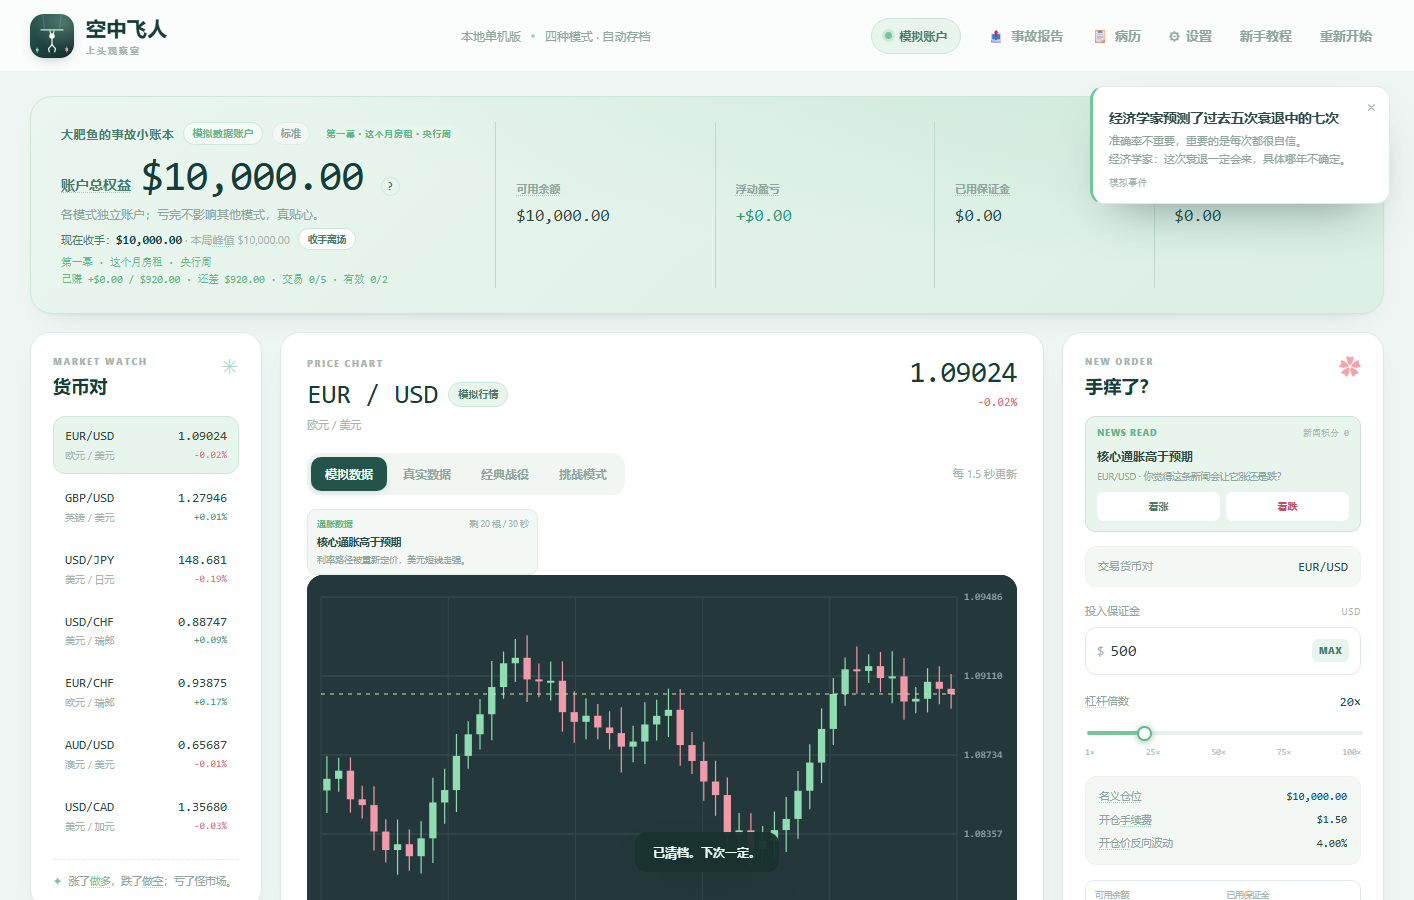
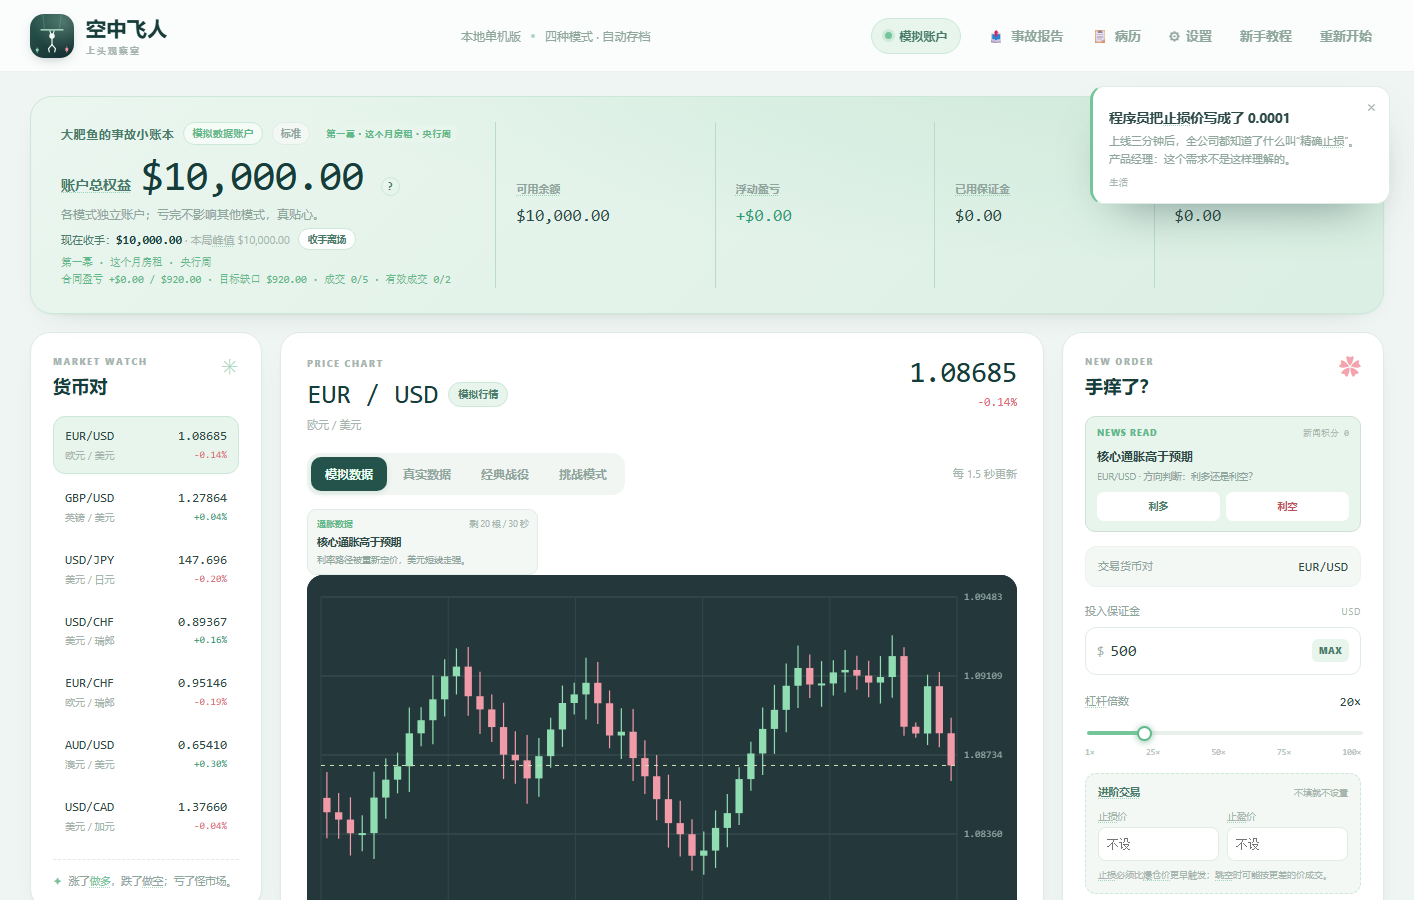
Make hard mode use professional terminology and advanced order fields

diff --git a/ui.js b/ui.js
@@ -198,7 +198,8 @@
       const done = !!contract.complete;
       const actLabel = ['第一幕', '第二幕', '第三幕'][Math.max(0, Math.min(2, (Number(contract.act) || 1) - 1))];
       const actEnd = contract.actEnds ? contract.actEnds[(Number(contract.act) || 1) - 1] : null;
-      const effectiveLabel = actEnd ? `有效 ${contract.actTrades || 0}/${actEnd}` : '';
+      const hard = s.mode === 'sim' && !E.settings.coachMode;
+      const effectiveLabel = actEnd ? `${hard ? '有效成交' : '有效'} ${contract.actTrades || 0}/${actEnd}` : '';
       const heading = `${actLabel} · ${contract.title}${contract.environmentTitle ? ` · ${contract.environmentTitle}` : ''}`;
       contractChip.textContent = `${heading}${done ? ' · 达成' : ''}`;
       contractChip.className = 'contract-chip' + (done ? ' done' : '');
@@ -206,9 +207,9 @@
       if (done) {
         contractLine.textContent = `${actLabel} · 目标达成。现在收手，还是再贪一点？`;
       } else if (contract.goalType === 'debt') {
-        contractLine.textContent = `${heading}\n权益 ${D.money(contract.effectiveEquity ?? a.equity)} / ${D.money(contract.targetEquity)} · 贷款 ${D.money(s.debt)} · 交易 ${contract.trades || 0}/${contract.maxTrades}${effectiveLabel ? ` · ${effectiveLabel}` : ''}`;
+        contractLine.textContent = `${heading}\n${hard ? '有效权益' : '权益'} ${D.money(contract.effectiveEquity ?? a.equity)} / ${D.money(contract.targetEquity)} · 贷款 ${D.money(s.debt)} · ${hard ? '成交' : '交易'} ${contract.trades || 0}/${contract.maxTrades}${effectiveLabel ? ` · ${effectiveLabel}` : ''}`;
       } else {
-        contractLine.textContent = `${heading}\n已赚 ${D.signedMoney(contract.profit)} / ${D.money(contract.targetProfit)} · 还差 ${D.money(contract.remaining)} · 交易 ${contract.trades || 0}/${contract.maxTrades}${effectiveLabel ? ` · ${effectiveLabel}` : ''}`;
+        contractLine.textContent = `${heading}\n${hard ? '合同盈亏' : '已赚'} ${D.signedMoney(contract.profit)} / ${D.money(contract.targetProfit)} · ${hard ? '目标缺口' : '还差'} ${D.money(contract.remaining)} · ${hard ? '成交' : '交易'} ${contract.trades || 0}/${contract.maxTrades}${effectiveLabel ? ` · ${effectiveLabel}` : ''}`;
       }
     }
     const closed = !!s.runClosed;
@@ -275,7 +276,9 @@
   function renderCoachPanel() {
     const active = coachActive();
     const locked = coachLocked();
+    const hard = E.state.mode === 'sim' && !E.settings.coachMode;
     document.body.classList.toggle('coach-mode', active);
+    document.body.classList.toggle('hard-mode', hard);
     $('coachOrder').classList.toggle('hidden', !active);
     if (!active) return;
     $('coachExit').disabled = locked;
@@ -325,7 +328,7 @@
     box.dataset.eventId = event.id;
     $('newsPointsLabel').textContent = `新闻积分 ${E.state.contract.newsPoints || 0}`;
     $('newsPromptTitle').textContent = event.title || '';
-    $('newsPromptMeta').textContent = `${E.state.pair} · 你觉得这条新闻会让它涨还是跌？`;
+    $('newsPromptMeta').textContent = `${E.state.pair} · 方向判断：利多还是利空？`;
     const actions = $('newsPromptActions');
     const result = $('newsPromptResult');
     if (event.judged) {
@@ -333,8 +336,8 @@
       result.classList.remove('hidden');
       result.className = 'news-prompt-result' + (event.judged.correct ? '' : ' miss');
       result.textContent = event.judged.correct
-        ? `解读正确 · 新闻积分 +1`
-        : `误读 · 没有积分`;
+        ? `方向判断正确 · 新闻积分 +1`
+        : `方向判断错误 · 没有积分`;
     } else {
       actions.classList.remove('hidden');
       result.classList.add('hidden');
@@ -1253,6 +1256,7 @@
   }
 
   function startSelectedContract(id, environmentId = null) {
+    if (!E.settings.coachMode) E.saveSettings({ advancedTrading: true });
     if (!E.startContract(id, environmentId)) {
       toast('现在不能签合同：请先结束当前这一局。');
       return false;
@@ -1358,6 +1362,9 @@
     $('eventKicker').textContent = `${actLabel} · ${contractTitle} · CONTRACT EVENT`;
     $('eventTitle').textContent = event.title;
     $('eventText').textContent = event.text;
+    $('eventGiftHint').textContent = E.settings.coachMode
+      ? '事件带来的生活费不计入合同进度；支出照算。'
+      : '外部现金流不计入合同 P&L；合同支出照常计入。';
     const root = $('eventChoices');
     root.replaceChildren();
     (event.choices || []).forEach((choice, index) => {
@@ -1964,10 +1971,10 @@
         return;
       }
       const novice = btn.dataset.gameMode === 'novice';
-      E.saveSettings({ coachMode: novice });
+      E.saveSettings({ coachMode: novice, advancedTrading: !novice });
       render();
       renderSettingsControls();
-      toast(novice ? '已切换到新手模式。' : '已切换到困难模式。');
+      toast(novice ? '已切换到新手模式。' : '已切换到困难模式：完整下单与专业术语。');
     });
     $('sfxToggle').addEventListener('change', event => {
       E.saveSettings({ sfxOn: event.target.checked });

diff --git a/styles.css b/styles.css
@@ -607,6 +607,8 @@ body.coach-mode .positions-panel,
 body.coach-mode .loan-panel { display: none !important; }
 body.coach-mode .mobile-trade-bar { display: none !important; }
 body.coach-mode { padding-bottom: 0 !important; }
+body.hard-mode .profit-cheatsheet,
+body.hard-mode #practiceHint { display: none !important; }
 .coach-head { display: flex; align-items: center; justify-content: space-between; gap: 8px; margin-top: 2px; }
 .coach-head > span { font-size: 9px; letter-spacing: 0.12em; font-weight: 900; color: var(--accent-deep); }
 .coach-head .text-button { font-size: 9px; padding: 2px 0; color: var(--text-dim); }

diff --git a/index.html b/index.html
@@ -147,8 +147,8 @@
               <strong id="newsPromptTitle"></strong>
               <p id="newsPromptMeta"></p>
               <div id="newsPromptActions" class="news-prompt-actions">
-                <button type="button" data-news-dir="1">看涨</button>
-                <button type="button" data-news-dir="-1">看跌</button>
+                <button type="button" data-news-dir="1">利多</button>
+                <button type="button" data-news-dir="-1">利空</button>
               </div>
               <p id="newsPromptResult" class="news-prompt-result hidden"></p>
             </div>

diff --git a/README.md b/README.md
@@ -47,7 +47,7 @@ node server.js
 3. **免费练习一笔**：保证金 $100、杠杆 10×，不算合同；
 4. 平仓后，练习成绩清空，回到 $10,000，再选合同或自由模式。
 
-练习期间，下单面板会出现一条“第一次试水”提示，告诉你每一步做什么。进阶交易（止损/止盈）默认关闭，不会一上来就塞两个价格输入框。
+练习期间，下单面板会出现一条“第一次试水”提示，告诉你每一步做什么。进阶交易在新手模式默认关闭；困难模式会自动开启。
 
 手机端底部常驻交易条：可用余额、当前持仓浮盈、做多、做空，不用滚回下单区。
 
@@ -79,6 +79,16 @@ node server.js
 | 困难模式 | 完整保证金、杠杆、进阶交易 | 完整 | $800 / $8,000 / $3,000 |
 
 合同进行中不能切换难度；收手或结束后再回设置里改。
+
+困难模式默认开启进阶交易，隐藏新手小抄和“第一次试水”提示，合同行使用：
+
+```text
+合同盈亏 / 目标缺口 / 成交 / 有效成交
+```
+
+新闻判断按钮使用 `利多 / 利空`。
+
+![困难模式](screenshots/hard-mode.png)
 
 ![新手模式](screenshots/coach-mode.png)
 
@@ -121,7 +131,7 @@ node server.js
 困难模式下，右侧下单区会出现 **NEWS READ**：
 
 - 显示当前有明确方向的新闻；
-- 选择「看涨 / 看跌」；
+- 选择「利多 / 利空」；
 - 判断正确：新闻积分 +1；
 - 判断错误：没有积分，也不扣钱；
 - 新闻积分可以在商店抵情报费用。
